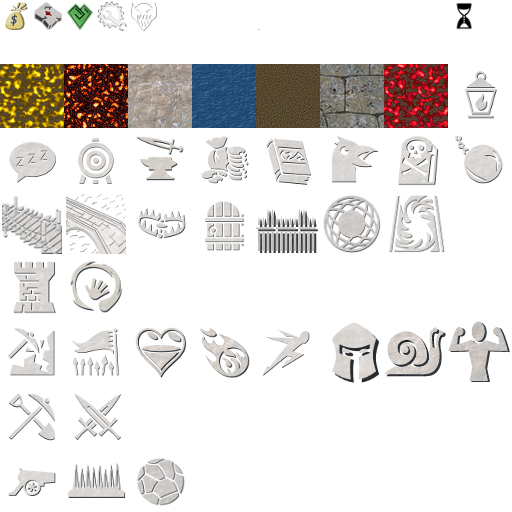
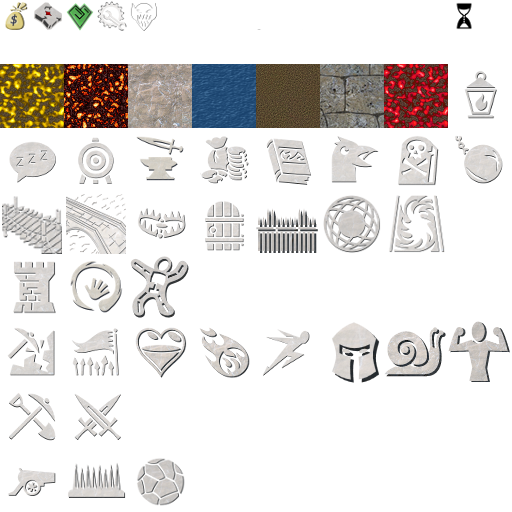
Implemented Weak spell

Changed region(s): [[0.25, 0.5, 0.375, 0.625]]

diff --git a/source/spells/SpellCreatureWeak.cpp b/source/spells/SpellCreatureWeak.cpp
@@ -1,0 +1,218 @@
+/*
+ *  Copyright (C) 2011-2015  OpenDungeons Team
+ *
+ *  This program is free software: you can redistribute it and/or modify
+ *  it under the terms of the GNU General Public License as published by
+ *  the Free Software Foundation, either version 3 of the License, or
+ *  (at your option) any later version.
+ *
+ *  This program is distributed in the hope that it will be useful,
+ *  but WITHOUT ANY WARRANTY; without even the implied warranty of
+ *  MERCHANTABILITY or FITNESS FOR A PARTICULAR PURPOSE.  See the
+ *  GNU General Public License for more details.
+ *
+ *  You should have received a copy of the GNU General Public License
+ *  along with this program.  If not, see <http://www.gnu.org/licenses/>.
+ */
+
+#include "spells/SpellCreatureWeak.h"
+
+#include "creatureeffect/CreatureEffectStrengthChange.h"
+#include "entities/Creature.h"
+#include "entities/Tile.h"
+#include "game/Player.h"
+#include "game/Seat.h"
+#include "gamemap/GameMap.h"
+#include "gamemap/Pathfinding.h"
+#include "modes/InputCommand.h"
+#include "modes/InputManager.h"
+#include "network/ODClient.h"
+#include "spells/SpellType.h"
+#include "spells/SpellManager.h"
+#include "utils/ConfigManager.h"
+#include "utils/Helper.h"
+#include "utils/LogManager.h"
+
+const std::string SpellCreatureWeakName = "creatureWeak";
+const std::string SpellCreatureWeakNameDisplay = "Creature Weak";
+const std::string SpellCreatureWeakCooldownKey = "CreatureWeakCooldown";
+const SpellType SpellCreatureWeak::mSpellType = SpellType::creatureWeak;
+
+namespace
+{
+class SpellCreatureWeakFactory : public SpellFactory
+{
+    SpellType getSpellType() const override
+    { return SpellCreatureWeak::mSpellType; }
+
+    const std::string& getName() const override
+    { return SpellCreatureWeakName; }
+
+    const std::string& getCooldownKey() const override
+    { return SpellCreatureWeakCooldownKey; }
+
+    const std::string& getNameReadable() const override
+    { return SpellCreatureWeakNameDisplay; }
+
+    virtual void checkSpellCast(GameMap* gameMap, const InputManager& inputManager, InputCommand& inputCommand) const override
+    { SpellCreatureWeak::checkSpellCast(gameMap, inputManager, inputCommand); }
+
+    virtual bool castSpell(GameMap* gameMap, Player* player, ODPacket& packet) const override
+    { return SpellCreatureWeak::castSpell(gameMap, player, packet); }
+
+    Spell* getSpellFromStream(GameMap* gameMap, std::istream &is) const override
+    { return SpellCreatureWeak::getSpellFromStream(gameMap, is); }
+
+    Spell* getSpellFromPacket(GameMap* gameMap, ODPacket &is) const override
+    { return SpellCreatureWeak::getSpellFromPacket(gameMap, is); }
+};
+
+// Register the factory
+static SpellRegister reg(new SpellCreatureWeakFactory);
+}
+
+void SpellCreatureWeak::checkSpellCast(GameMap* gameMap, const InputManager& inputManager, InputCommand& inputCommand)
+{
+    Player* player = gameMap->getLocalPlayer();
+    int32_t pricePerTarget = ConfigManager::getSingleton().getSpellConfigInt32("CreatureWeakPrice");
+    int32_t playerMana = static_cast<int32_t>(player->getSeat()->getMana());
+    if(inputManager.mCommandState == InputCommandState::infoOnly)
+    {
+        if(playerMana < pricePerTarget)
+        {
+            std::string txt = formatCastSpell(SpellType::creatureWeak, pricePerTarget);
+            inputCommand.displayText(Ogre::ColourValue::Red, txt);
+        }
+        else
+        {
+            std::string txt = formatCastSpell(SpellType::creatureWeak, pricePerTarget);
+            inputCommand.displayText(Ogre::ColourValue::White, txt);
+        }
+        inputCommand.selectSquaredTiles(inputManager.mXPos, inputManager.mYPos, inputManager.mXPos,
+            inputManager.mYPos);
+        return;
+    }
+
+    Tile* tileSelected = gameMap->getTile(inputManager.mXPos, inputManager.mYPos);
+    if(tileSelected == nullptr)
+        return;
+
+    if(inputManager.mCommandState == InputCommandState::building)
+    {
+        inputCommand.selectSquaredTiles(inputManager.mXPos, inputManager.mYPos, inputManager.mXPos,
+            inputManager.mYPos);
+    }
+
+    std::vector<EntityBase*> entities;
+    // We search the closest creature alive
+    tileSelected->fillWithEntities(entities, SelectionEntityWanted::creatureAliveEnemy, player);
+    Creature* closestCreature = nullptr;
+    double closestDist = 0;
+    for(EntityBase* entity : entities)
+    {
+        if(entity->getObjectType() != GameEntityType::creature)
+        {
+            OD_LOG_ERR("entityName=" + entity->getName() + ", entityType=" + Helper::toString(static_cast<uint32_t>(entity->getObjectType())));
+            continue;
+        }
+
+        const Ogre::Vector3& entityPos = entity->getPosition();
+        double dist = Pathfinding::squaredDistance(entityPos.x, inputManager.mKeeperHandPos.x, entityPos.y, inputManager.mKeeperHandPos.y);
+        if(closestCreature == nullptr)
+        {
+            closestDist = dist;
+            closestCreature = static_cast<Creature*>(entity);
+            continue;
+        }
+
+        if(dist >= closestDist)
+            continue;
+
+        closestDist = dist;
+        closestCreature = static_cast<Creature*>(entity);
+    }
+
+    if(closestCreature == nullptr)
+    {
+        std::string txt = formatCastSpell(SpellType::creatureWeak, 0);
+        inputCommand.displayText(Ogre::ColourValue::White, txt);
+        return;
+    }
+
+    std::string txt = formatCastSpell(SpellType::creatureWeak, pricePerTarget);
+    inputCommand.displayText(Ogre::ColourValue::White, txt);
+
+    if(inputManager.mCommandState != InputCommandState::validated)
+        return;
+
+    inputCommand.unselectAllTiles();
+
+    ClientNotification *clientNotification = SpellManager::createSpellClientNotification(SpellType::creatureWeak);
+    clientNotification->mPacket << closestCreature->getName();
+    ODClient::getSingleton().queueClientNotification(clientNotification);
+}
+
+bool SpellCreatureWeak::castSpell(GameMap* gameMap, Player* player, ODPacket& packet)
+{
+    std::string creatureName;
+    OD_ASSERT_TRUE(packet >> creatureName);
+
+    // We check that the creature is a valid target
+    Creature* creature = gameMap->getCreature(creatureName);
+    if(creature == nullptr)
+    {
+        OD_LOG_ERR("creatureName=" + creatureName);
+        return false;
+    }
+
+    if(creature->getSeat()->isAlliedSeat(player->getSeat()))
+    {
+        OD_LOG_ERR("creatureName=" + creatureName);
+        return false;
+    }
+
+    Tile* pos = creature->getPositionTile();
+    if(pos == nullptr)
+    {
+        OD_LOG_ERR("creatureName=" + creatureName);
+        return false;
+    }
+
+    if(!creature->isAlive())
+    {
+        // This can happen if the creature was alive on client side but is not since we received the message
+        OD_LOG_WRN("creatureName=" + creatureName);
+        return false;
+    }
+
+    // That can happen if the creature is not in perfect synchronization and is not on a claimed tile on the server gamemap
+    if(!pos->isClaimedForSeat(player->getSeat()))
+    {
+        OD_LOG_WRN("Creature=" + creatureName + ", tile=" + Tile::displayAsString(pos));
+        return false;
+    }
+
+    int32_t pricePerTarget = ConfigManager::getSingleton().getSpellConfigInt32("CreatureWeakPrice");
+
+    if(!player->getSeat()->takeMana(pricePerTarget))
+        return false;
+
+    uint32_t duration = ConfigManager::getSingleton().getSpellConfigUInt32("CreatureWeakDuration");
+    double value = ConfigManager::getSingleton().getSpellConfigDouble("CreatureWeakValue");
+    CreatureEffectStrengthChange* effect = new CreatureEffectStrengthChange(duration, value, "SpellCreatureWeak");
+    creature->addCreatureEffect(effect);
+
+    return true;
+}
+
+Spell* SpellCreatureWeak::getSpellFromStream(GameMap* gameMap, std::istream &is)
+{
+    OD_LOG_ERR("SpellCreatureWeak cannot be read from stream");
+    return nullptr;
+}
+
+Spell* SpellCreatureWeak::getSpellFromPacket(GameMap* gameMap, ODPacket &is)
+{
+    OD_LOG_ERR("SpellCreatureWeak cannot be read from packet");
+    return nullptr;
+}

diff --git a/source/spells/SpellCreatureWeak.h b/source/spells/SpellCreatureWeak.h
@@ -15,34 +15,26 @@
  *  along with this program.  If not, see <http://www.gnu.org/licenses/>.
  */
 
-#ifndef SPELLTYPE_H
-#define SPELLTYPE_H
+#ifndef SPELLCREATUREWEAK_H
+#define SPELLCREATUREWEAK_H
 
-#include <iosfwd>
-#include <string>
+#include "spells/Spell.h"
+#include "spells/SpellType.h"
 
-class ODPacket;
+class GameMap;
+class InputCommand;
+class InputManager;
 
-enum class SpellType
+class SpellCreatureWeak : public Spell
 {
-    nullSpellType = 0,
-    summonWorker,
-    callToWar,
-    creatureHeal,
-    creatureExplosion,
-    creatureHaste,
-    creatureDefense,
-    creatureSlow,
-    creatureStrength,
-    creatureWeak,
-    nbSpells     // Must be the last in this enum
+public:
+    static void checkSpellCast(GameMap* gameMap, const InputManager& inputManager, InputCommand& inputCommand);
+    static bool castSpell(GameMap* gameMap, Player* player, ODPacket& packet);
+
+    static Spell* getSpellFromStream(GameMap* gameMap, std::istream &is);
+    static Spell* getSpellFromPacket(GameMap* gameMap, ODPacket &is);
+
+    static const SpellType mSpellType;
 };
 
-std::istream& operator>>(std::istream& is, SpellType& tt);
-std::ostream& operator<<(std::ostream& os, const SpellType& tt);
-
-ODPacket& operator>>(ODPacket& is, SpellType& tt);
-ODPacket& operator<<(ODPacket& os, const SpellType& tt);
-
-
-#endif // SPELLTYPE_H
+#endif // SPELLCREATUREWEAK_H

diff --git a/source/game/Research.cpp b/source/game/Research.cpp
@@ -132,6 +132,8 @@ std::string Research::researchTypeToString(ResearchType type)
             return "spellCreatureSlow";
         case ResearchType::spellCreatureStrength:
             return "spellCreatureStrength";
+        case ResearchType::spellCreatureWeak:
+            return "spellCreatureWeak";
         case ResearchType::trapBoulder:
             return "trapBoulder";
         case ResearchType::trapCannon:
@@ -187,6 +189,8 @@ std::string Research::researchTypeToPlayerVisibleString(ResearchType type)
             return "The 'Slow' Spell";
         case ResearchType::spellCreatureStrength:
             return "The 'Strength' Spell";
+        case ResearchType::spellCreatureWeak:
+            return "The 'Weak' Spell";
         case ResearchType::trapBoulder:
             return "The Boulder Trap";
         case ResearchType::trapCannon:

diff --git a/source/game/ResearchManager.cpp b/source/game/ResearchManager.cpp
@@ -478,6 +478,15 @@ ResearchManager::ResearchManager() :
     def->mapResearch(mResearchesFamily);
     mResearches[index] = def;
     lvl4depends.push_back(research);
+
+    resType = ResearchType::spellCreatureWeak;
+    index = static_cast<uint32_t>(resType);
+    points = ConfigManager::getSingleton().getResearchPoints(Research::researchTypeToString(resType));
+    research = new Research(resType, points, lvl3depends);
+    def = new ResearchDefSpell("MagicSkills/", "CreatureWeakButton", research, SpellType::creatureWeak);
+    def->mapResearch(mResearchesFamily);
+    mResearches[index] = def;
+    lvl4depends.push_back(research);
 }
 
 ResearchManager::~ResearchManager()

diff --git a/source/game/Research.h b/source/game/Research.h
@@ -56,6 +56,7 @@ enum class ResearchType
     spellCreatureHeal,
     spellCreatureSlow,
     spellCreatureStrength,
+    spellCreatureWeak,
 
     // This should be the last
     countResearch
